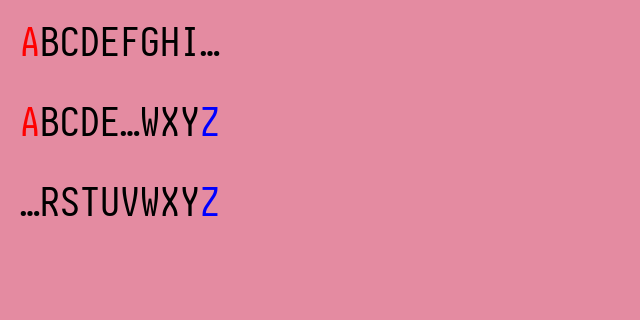
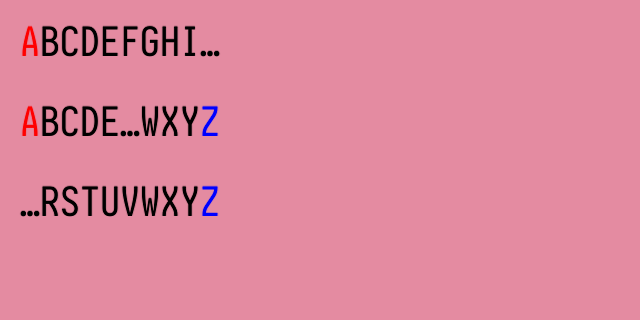
[D] CoreText-matching glyph raster on Apple: unhinted, ppem-quantised, dilated
Platform::Apple (Ui::create -> Text::set_apple_raster): hinting off, glyph origin x floored
to 1/4, 1/3 (nearest cosmic bins 1/4 and 3/4), 1/2, 1 px by ppem (<12, <16, <30, else),
baseline y rounded (walk and replay agree), masks dilated on atlas miss (0.006 ppem per
side, shifted up; coverage-domain c + d(|grad c| + dc/dy), one-texel ring, reused scratch).
Other platforms unchanged. Light text deferred. Layout metrics unchanged.

Evidence: tools/glyph_ref.sh renders CoreText references and runs the on-demand
pxui_text glyph_ref test. Mean MAE other -> apple: Host Grotesk 1x 2.99->1.93, 2x 2.22->1.07;
Geist Mono 1x 3.22->2.46, 2x 2.71->1.75; Pragmasevka 1x 2.68->1.88, 2x 1.78->0.95.
pxui_core/pxui_render goldens refreshed at their densities.

diff --git a/crates/private/pxui_text/src/lib.rs b/crates/private/pxui_text/src/lib.rs
@@ -54,7 +54,7 @@
 //! build of the dependency closure 24.5 s wall (116 s CPU); 40 external crates + pxui_text.
 
 use cosmic_text::{
-    Align as CAlign, Attrs, AttrsList, Buffer, CacheKey, Cursor, Ellipsize, EllipsizeHeightLimit, Family, FeatureTag, FontFeatures, FontSystem, Metrics as CMetrics, Shaping,
+    Align as CAlign, Attrs, AttrsList, Buffer, CacheKey, CacheKeyFlags, Cursor, Ellipsize, EllipsizeHeightLimit, Family, FeatureTag, FontFeatures, FontSystem, Metrics as CMetrics, Shaping,
     Style as CStyle, SubpixelBin, SwashCache, SwashContent, Weight, Wrap as CWrap, fontdb,
 };
 pub use pxui_types::{TextSpan, TextSpans};
@@ -484,6 +484,10 @@ pub const CACHE_BYTES: usize = 4 << 20;
 struct Glyphs {
     fs: FontSystem,
     swash: SwashCache,
+    /// CoreText-matching raster (Apple): unhinted, ppem-quantised origins, dilated masks
+    apple: bool,
+    /// the dilated mask of the glyph being rasterised (reused, so only a larger glyph allocates)
+    scratch: Vec<u8>,
     atlases: [Atlas; 4],
     slots: HashMap<CacheKey, Slot, Fast>,
     dirty: Vec<(AtlasKind, u32, u32, u32, u32)>,
@@ -507,16 +511,23 @@ impl Glyphs {
         }
         let empty = Slot { kind: AtlasKind::Mask, shelf: 0, generation: 0, x: 0, y: 0, w: 0, h: 0, left: 0, top: 0 };
         let Some(img) = self.swash.get_image_uncached(&mut self.fs, key) else { return Some(empty) };
-        let (w, h) = (img.placement.width, img.placement.height);
+        let (mut w, mut h) = (img.placement.width, img.placement.height);
+        let (mut left, mut top) = (img.placement.left, img.placement.top);
+        let mut dilated = false;
+        if self.apple && img.content == SwashContent::Mask && w > 0 && h > 0 && img.data.len() == (w * h) as usize {
+            dilate(&img.data, w, h, 0.006 * f32::from_bits(key.font_size_bits), &mut self.scratch);
+            (w, h, left, top, dilated) = (w + 2, h + 2, left - 1, top + 1, true);
+        }
+        let data: &[u8] = if dilated { &self.scratch } else { &img.data };
         let primary = match img.content {
             SwashContent::Mask => AtlasKind::Mask,
             SwashContent::Color => AtlasKind::Color,
             SwashContent::SubpixelMask => return Some(empty),
         };
         let bpp = self.atlases[idx(primary)].bpp;
-        let mut s = Slot { kind:primary, shelf: 0, generation: 0, x: 0, y: 0, w, h, left: img.placement.left, top: img.placement.top };
+        let mut s = Slot { kind:primary, shelf: 0, generation: 0, x: 0, y: 0, w, h, left, top };
         if w > 0 && h > 0 {
-            if img.data.len() != (w * h * bpp) as usize {
+            if data.len() != (w * h * bpp) as usize {
                 return Some(empty);
             }
             let second=if primary==AtlasKind::Mask { AtlasKind::Mask2 } else { AtlasKind::Color2 };
@@ -542,7 +553,7 @@ impl Glyphs {
             for row in 0..h {
                 let src = (row * w * bpp) as usize;
                 let dst = (((y + row) * a.w + x) * bpp) as usize;
-                a.pixels()[dst..dst + (w * bpp) as usize].copy_from_slice(&img.data[src..src + (w * bpp) as usize]);
+                a.pixels()[dst..dst + (w * bpp) as usize].copy_from_slice(&data[src..src + (w * bpp) as usize]);
             }
             if evicted {
                 self.evictions += 1;
@@ -600,6 +611,35 @@ fn subpixel_bin(pos: f32) -> (i32, SubpixelBin) {
             f if f < 0.625 => (trunc, SubpixelBin::Two),
             f if f < 0.875 => (trunc, SubpixelBin::Three),
             _ => (trunc + 1, SubpixelBin::Zero),
+        }
+    }
+}
+
+/// Where CoreText puts a glyph origin: x floored to 1/4, 1/3, 1/2 or 1 pixel by ppem (a third is
+/// the nearest cosmic-text bin, a quarter or three quarters; their error is under 1/12 pixel).
+fn apple_x(ppem: f32, pos: f32) -> (i32, SubpixelBin) {
+    let n = if ppem < 12.0 { 4 } else if ppem < 16.0 { 3 } else if ppem < 30.0 { 2 } else { 1 };
+    let m = (pos * n as f32).floor() as i32;
+    let bin = match (n, m.rem_euclid(n)) {
+        (_, 0) => SubpixelBin::Zero,
+        (4 | 3, 1) => SubpixelBin::One,
+        (4, 2) | (2, 1) => SubpixelBin::Two,
+        _ => SubpixelBin::Three,
+    };
+    (m.div_euclid(n), bin)
+}
+
+/// CoreText's stem growth, applied to a coverage mask: a round dilation by `d` pixels shifted up by
+/// `d` is `c + d (|grad c| + dc/dy)` at an edge. `out` is the mask padded by one pixel all round.
+fn dilate(src: &[u8], w: u32, h: u32, d: f32, out: &mut Vec<u8>) {
+    let (w, h) = (w as i32, h as i32);
+    let at = |x: i32, y: i32| if x < 0 || y < 0 || x >= w || y >= h { 0.0 } else { src[(y * w + x) as usize] as f32 };
+    out.clear();
+    for y in -1..=h {
+        for x in -1..=w {
+            let gx = (at(x + 1, y) - at(x - 1, y)) * 0.5;
+            let gy = (at(x, y + 1) - at(x, y - 1)) * 0.5;
+            out.push((at(x, y) + d * (gx.hypot(gy) + gy)).clamp(0.0, 255.0).round() as u8);
         }
     }
 }
@@ -678,6 +718,8 @@ impl Text {
             g: Glyphs {
                 fs: FontSystem::new_with_locale_and_db(locale.into(), fontdb::Database::new()),
                 swash: SwashCache::new(),
+                apple: false,
+                scratch: Vec::with_capacity(32 << 10),
                 atlases: [Atlas::new(mask, 1), Atlas::new(color, 4),Atlas::new(mask,1),Atlas::new(color,4)],
                 slots: HashMap::default(),
                 dirty: Vec::new(),
@@ -723,6 +765,19 @@ impl Text {
             self.font_generation=Arc::new(());
         }
         true
+    }
+
+    /// CoreText-matching glyph raster (the Apple default): unhinted outlines, origins floored by ppem,
+    /// rounded baselines and CoreText's stem growth. Drops every layout and glyph, so call it first.
+    pub fn set_apple_raster(&mut self, on: bool) {
+        if self.g.apple == on { return; }
+        self.g.apple = on;
+        self.g.slots.clear();
+        self.entries.clear();
+        self.keys.clear();
+        self.sweep = 0;
+        self.cache_bytes = 0;
+        self.font_generation = Arc::new(());
     }
 
     /// Loads a font (copies the bytes); returns its index for `Style::font`. Existing layouts keep
@@ -799,6 +854,7 @@ impl Text {
             None => Family::SansSerif,
         };
         let attrs = Attrs::new().family(family).weight(Weight(style.weight)).style(if style.italic { CStyle::Italic } else { CStyle::Normal });
+        let attrs = if self.g.apple { attrs.cache_key_flags(CacheKeyFlags::DISABLE_HINTING) } else { attrs };
         let attrs = if style.tracking != 0.0 { attrs.letter_spacing(style.tracking / style.size) } else { attrs };
         let mut features=FontFeatures::new();
         if style.features & Style::FEATURE_TABULAR_NUMBERS != 0 { features.enable(FeatureTag::new(b"tnum")); }
@@ -979,9 +1035,11 @@ impl Text {
             }
             let (ox, start) = (origin.0 * scale, g.evictions);
             for c in &e.glyphs {
-                let (x, bin) = subpixel_bin(c.x.mul_add(scale, ox));
-                // y is whole after `trunc`: its bin is zero and its pixel the truncation
-                let y = c.y.mul_add(scale, (origin.1 + c.line_y) * scale).trunc() as i32;
+                let px = c.x.mul_add(scale, ox);
+                let (x, bin) = if g.apple { apple_x(f32::from_bits(c.key.font_size_bits), px) } else { subpixel_bin(px) };
+                // y is whole: its bin is zero and its pixel the truncation (Apple: the rounding)
+                let py = c.y.mul_add(scale, (origin.1 + c.line_y) * scale);
+                let y = if g.apple { py.round() } else { py.trunc() } as i32;
                 if bin == c.key.x_bin && g.evictions == start {
                     if c.slot.w > 0 && c.slot.h > 0 {
                         g.atlases[idx(c.slot.kind)].shelves[c.slot.shelf as usize].used = g.frame;
@@ -1007,7 +1065,13 @@ impl Text {
         for run in e.buf.layout_runs() {
             while line<run.line_i { base+=e.buf.lines[line].text().len()+e.buf.lines[line].ending().as_str().len(); line+=1; }
             for lg in run.glyphs {
-                let p=lg.physical((origin.0*scale,(origin.1+run.line_y)*scale),scale);
+                let p=if g.apple {
+                    let ppem=lg.font_size*scale;
+                    let (x,x_bin)=apple_x(ppem,(lg.x+lg.font_size*lg.x_offset).mul_add(scale,origin.0*scale));
+                    let y=(lg.y-lg.font_size*lg.y_offset).mul_add(scale,(origin.1+run.line_y)*scale).round() as i32;
+                    let cache_key=CacheKey { font_id:lg.font_id, glyph_id:lg.glyph_id, font_size_bits:ppem.to_bits(), x_bin, y_bin:SubpixelBin::Zero, font_weight:lg.font_weight, flags:lg.cache_key_flags };
+                    cosmic_text::PhysicalGlyph { cache_key, x, y }
+                } else { lg.physical((origin.0*scale,(origin.1+run.line_y)*scale),scale) };
                 let Some(slot)=g.slot(p.cache_key) else { e.cached=false; continue; };
                 glyph_parts(&run,lg,base,spans,&mut |clip,color| {
                     if keep {

diff --git a/crates/private/pxui_text/tests/glyph_ref.rs b/crates/private/pxui_text/tests/glyph_ref.rs
@@ -1,0 +1,75 @@
+//! On-demand MAE of pxui_text's glyph raster against CoreText (`tools/glyph_ref/run.sh`; macOS only).
+//! Skipped unless `PXUI_GLYPH_REF` names a directory of reference PGMs. Writes `mae.tsv` there:
+//! MAE = mean per-pixel channel difference (scriptc-ui's metric), `other` = the unchanged raster.
+use pxui_text::{AtlasKind, Style, Text};
+
+const TEXT: &str = "Hamburgefonstiv Quick 0123456789";
+
+fn pgm(path: &str) -> Option<(usize, usize, Vec<u8>)> {
+    let b = std::fs::read(path).ok()?;
+    let mut it = b.splitn(4, |c| *c == b'\n');
+    it.next();
+    let dims = String::from_utf8_lossy(it.next()?).into_owned();
+    it.next();
+    let (w, h) = dims.split_once(' ')?;
+    Some((w.parse().ok()?, h.parse().ok()?, it.next()?.to_vec()))
+}
+
+fn render(t: &mut Text, size: f32, scale: f32, white: bool, w: usize, h: usize) -> Vec<u8> {
+    let st = Style { size, ..Style::default() };
+    let m = t.layout(1, TEXT, &st, f32::INFINITY);
+    let mut quads = Vec::new();
+    t.glyphs(1, (8.0, 40.0 - m.baseline), scale, &mut |g| quads.push(g));
+    let (bg, fg) = if white { (0.0, 255.0) } else { (255.0, 0.0) };
+    let mut out = vec![bg as u8; w * h];
+    for g in quads {
+        let (aw, ah) = t.atlas_size(g.atlas);
+        let atlas = t.atlas_pixels(g.atlas);
+        let (u, v) = ((g.uv.x * aw as f32).round() as usize, (g.uv.y * ah as f32).round() as usize);
+        for y in 0..g.rect.h as usize {
+            for x in 0..g.rect.w as usize {
+                let (px, py) = (g.rect.x as i32 + x as i32, g.rect.y as i32 + y as i32);
+                if px < 0 || py < 0 || px as usize >= w || py as usize >= h || g.atlas != AtlasKind::Mask && g.atlas != AtlasKind::Mask2 {
+                    continue;
+                }
+                let a = atlas[(v + y) * aw as usize + u + x] as f32 / 255.0;
+                let o = &mut out[py as usize * w + px as usize];
+                *o = (*o as f32 + (fg - *o as f32) * a).round() as u8;
+            }
+        }
+    }
+    out
+}
+
+#[test]
+fn glyph_ref_mae() {
+    let Ok(dir) = std::env::var("PXUI_GLYPH_REF") else { return };
+    let fonts_dir = std::fs::read_to_string(format!("{dir}/fonts_dir")).unwrap().trim().to_string();
+    let faces = [
+        ("hg", format!("{fonts_dir}/HostGrotesk.ttf")),
+        ("gm", format!("{fonts_dir}/GeistMono.ttf")),
+        ("ps", concat!(env!("CARGO_MANIFEST_DIR"), "/../../../assets/fonts/Pragmasevka-Regular.ttf").to_string()),
+    ];
+    let mut tsv = String::from("font\tsize\tscale\tpolarity\tother\tapple\n");
+    for (name, path) in faces {
+        let bytes = std::fs::read(path).unwrap();
+        for size in [11, 13, 15, 17, 20, 28] {
+            for scale in [1, 2] {
+                for pol in ["black", "white"] {
+                    let Some((w, h, reference)) = pgm(&format!("{dir}/{name}-{size}-{scale}x-{pol}.pgm")) else { continue };
+                    let mut row = format!("{name}\t{size}\t{scale}x\t{pol}");
+                    for apple in [false, true] {
+                        let mut t = Text::new(&[&bytes]);
+                        t.set_apple_raster(apple);
+                        let ours = render(&mut t, size as f32, scale as f32, pol == "white", w, h);
+                        let sum: u64 = ours.iter().zip(&reference).map(|(a, b)| a.abs_diff(*b) as u64).sum();
+                        row += &format!("\t{:.3}", sum as f64 / (w * h) as f64);
+                    }
+                    println!("{row}");
+                    tsv += &(row + "\n");
+                }
+            }
+        }
+    }
+    std::fs::write(format!("{dir}/mae.tsv"), tsv).unwrap();
+}

diff --git a/tools/glyph_ref.m b/tools/glyph_ref.m
@@ -1,0 +1,36 @@
+// CoreText reference raster for pxui_text's glyph_ref test (macOS only, built on demand):
+//   clang -O1 -fobjc-arc -framework CoreText -framework CoreGraphics -framework Foundation coretext.m -o coretext
+//   coretext <font.ttf> <size_pt> <scale> <black|white> <text> <out.pgm>
+// Canvas 640x56 pt, baseline 40 pt from the top, origin x 8 pt; default context (smoothing on), sRGB
+// RGBA, black-on-white or white-on-black. Writes the green channel as a binary PGM.
+#import <CoreText/CoreText.h>
+#import <Foundation/Foundation.h>
+int main(int argc, char **argv) {
+    if (argc != 7) return 2;
+    CGFloat size = atof(argv[2]), scale = atof(argv[3]);
+    BOOL white = argv[4][0] == 'w';
+    NSURL *url = [NSURL fileURLWithPath:@(argv[1])];
+    NSArray *descs = CFBridgingRelease(CTFontManagerCreateFontDescriptorsFromURL((__bridge CFURLRef)url));
+    // pxui_text asks variable fonts for wght 400 (the Style default); pin CoreText to the same instance
+    CTFontDescriptorRef d = CTFontDescriptorCreateCopyWithVariation((__bridge CTFontDescriptorRef)descs[0], (__bridge CFNumberRef)@(0x77676874), 400);
+    CTFontRef font = CTFontCreateWithFontDescriptor(d, size, NULL);
+    int w = 640 * scale, h = 56 * scale;
+    CGColorSpaceRef cs = CGColorSpaceCreateWithName(kCGColorSpaceSRGB);
+    CGContextRef cx = CGBitmapContextCreate(NULL, w, h, 8, 0, cs, (CGBitmapInfo)kCGImageAlphaPremultipliedLast);
+    CGContextSetRGBFillColor(cx, white ? 0 : 1, white ? 0 : 1, white ? 0 : 1, 1);
+    CGContextFillRect(cx, CGRectMake(0, 0, w, h));
+    CGContextScaleCTM(cx, scale, scale);
+    CGContextSetRGBFillColor(cx, white ? 1 : 0, white ? 1 : 0, white ? 1 : 0, 1);
+    NSDictionary *attrs = @{(__bridge id)kCTFontAttributeName: (__bridge id)font,
+                            (__bridge id)kCTForegroundColorFromContextAttributeName: @YES};
+    CTLineRef line = CTLineCreateWithAttributedString((__bridge CFAttributedStringRef)[[NSAttributedString alloc] initWithString:@(argv[5]) attributes:attrs]);
+    CGContextSetTextPosition(cx, 8, 16);
+    CTLineDraw(line, cx);
+    unsigned char *p = CGBitmapContextGetData(cx);
+    size_t bpr = CGBitmapContextGetBytesPerRow(cx);
+    FILE *f = fopen(argv[6], "wb");
+    fprintf(f, "P5\n%d %d\n255\n", w, h);
+    for (int y = 0; y < h; y++) for (int x = 0; x < w; x++) fputc(p[y * bpr + x * 4 + 1], f);
+    fclose(f);
+    return 0;
+}

diff --git a/crates/private/pxui_text/tests/text.rs b/crates/private/pxui_text/tests/text.rs
@@ -645,3 +645,46 @@ fn selection_streams_caret_ranges_across_bidi_ligatures_crlf_and_wrapping_withou
         assert_eq!(mem_sys::local_alloc_count(), 0);
     }
 }
+
+fn apple_glyphs(apple: bool, origin: (f32, f32), size: f32, walk: bool) -> (Vec<Glyph>, Vec<u8>) {
+    let mut t = Text::new(&[&pragma()]);
+    t.set_apple_raster(apple);
+    t.set_glyph_cache(!walk);
+    let st = Style { size, ..Style::default() };
+    t.layout(1, "Hamburg ilfo", &st, f32::INFINITY);
+    let mut v = Vec::new();
+    // the first call walks; a second at the same origin replays the kept list when caching is on
+    t.glyphs(1, origin, 2.0, &mut |_| {});
+    t.glyphs(1, origin, 2.0, &mut |g| v.push(g));
+    (v, t.atlas_pixels(AtlasKind::Mask).to_vec())
+}
+
+#[test]
+fn apple_raster_is_dilated_quantised_and_replays_like_a_walk() {
+    // 13 pt at 2x is 26 ppem: halves of a pixel in x, whole pixels in y, masks one texel larger a side
+    let (apple, apple_px) = apple_glyphs(true, (0.3, 0.2), 13.0, false);
+    let (other, other_px) = apple_glyphs(false, (0.3, 0.2), 13.0, false);
+    assert_eq!(apple.len(), other.len());
+    assert_ne!(apple_px, other_px, "Apple masks differ from the cosmic-text ones");
+    assert!(apple.iter().zip(&other).any(|(a, o)| a.rect.w > o.rect.w), "dilation pads the masks");
+    assert!(apple.iter().all(|g| g.rect.y.fract() == 0.0 && g.rect.x.fract() == 0.0));
+    let (walked, _) = apple_glyphs(true, (0.3, 0.2), 13.0, true);
+    assert_eq!(apple, walked, "replay and walk agree");
+    // other platforms keep the same pixels as before: unhinted-off, quarter bins, truncated y
+    let (a, _) = apple_glyphs(false, (0.0, 0.0), 13.0, false);
+    assert!(a.iter().all(|g| g.rect.w > 0.0));
+}
+
+#[test]
+fn apple_raster_warm_frame_allocates_nothing() {
+    let mut t = Text::new(&[&pragma()]);
+    t.set_apple_raster(true);
+    let st = Style { size: 13.0, ..Style::default() };
+    t.layout(1, "Warm frame text", &st, f32::INFINITY);
+    t.glyphs(1, (1.3, 2.7), 2.0, &mut |_| {});
+    mem_sys::local_reset();
+    let before = mem_sys::local_alloc_count();
+    t.glyphs(1, (1.3, 2.7), 2.0, &mut |_| {});
+    t.glyphs(1, (5.9, 2.7), 2.0, &mut |_| {});
+    assert_eq!(mem_sys::local_alloc_count() - before, 0);
+}

diff --git a/crates/private/pxui_core/tests/cases/widgets.rs b/crates/private/pxui_core/tests/cases/widgets.rs
@@ -442,10 +442,10 @@ fn widgets_scroll_view_rtl() {
     }
     let (v, r) = (ui.rect(&view.get().unwrap()), ui.rect(&row.get().unwrap()));
     check((r.x + r.w - (v.x + v.w - 1.0)).abs() < 0.01, &format!("the content ends at the view's right edge: {r:?} in {v:?}"));
-    // the text: the only mask instances, ending 8 points from the row's right edge
+    // the text: the only mask instances, ending 8 points from the row's right edge (Apple masks carry a one-texel dilation ring)
     let glyphs: Vec<_> = ui.output().draw.iter().flat_map(|l| l.instances.iter()).filter(|i| i.kind == pxui_core::draw::kind::MASK).map(|i| i.rect).collect();
     let right = glyphs.iter().map(|g| g[2]).fold(f32::MIN, f32::max);
-    check(!glyphs.is_empty() && right <= v.x + v.w - 1.0 - 8.0 + 0.5 && right > v.x + v.w - 40.0, &format!("the text sits at the start inset from the right: {right} in {v:?}"));
+    check(!glyphs.is_empty() && right <= v.x + v.w - 1.0 - 8.0 + 1.5 && right > v.x + v.w - 40.0, &format!("the text sits at the start inset from the right: {right} in {v:?}"));
     let p = ((v.x + 50.0) as i64, (v.y + 20.0) as i64);
     ui.frame(&at(1.0, vec![move_to(p)]), &mut build);
     for t in 0..10 {

diff --git a/crates/private/pxui_core/src/ui_core.rs b/crates/private/pxui_core/src/ui_core.rs
@@ -1193,7 +1193,8 @@ impl Ui {
     /// `platform` is the host's modifier conventions: the text keys and every Command check follow
     /// it. `text` holds the fonts the host loaded: font 0 is the kit face (`pxui_text::PRAGMASEVKA`
     /// in the default theme); `font_size` is the logical size of kit text.
-    pub fn create(platform: Platform, font_size: Option<i64>, text: Text) -> Ui {
+    pub fn create(platform: Platform, font_size: Option<i64>, mut text: Text) -> Ui {
+        text.set_apple_raster(platform == Platform::Apple);
         let font_size = font_size.unwrap_or(theme::FONT_SIZE);
         if font_size <= 0 {
             panic!("Ui.create: font_size must be positive");
